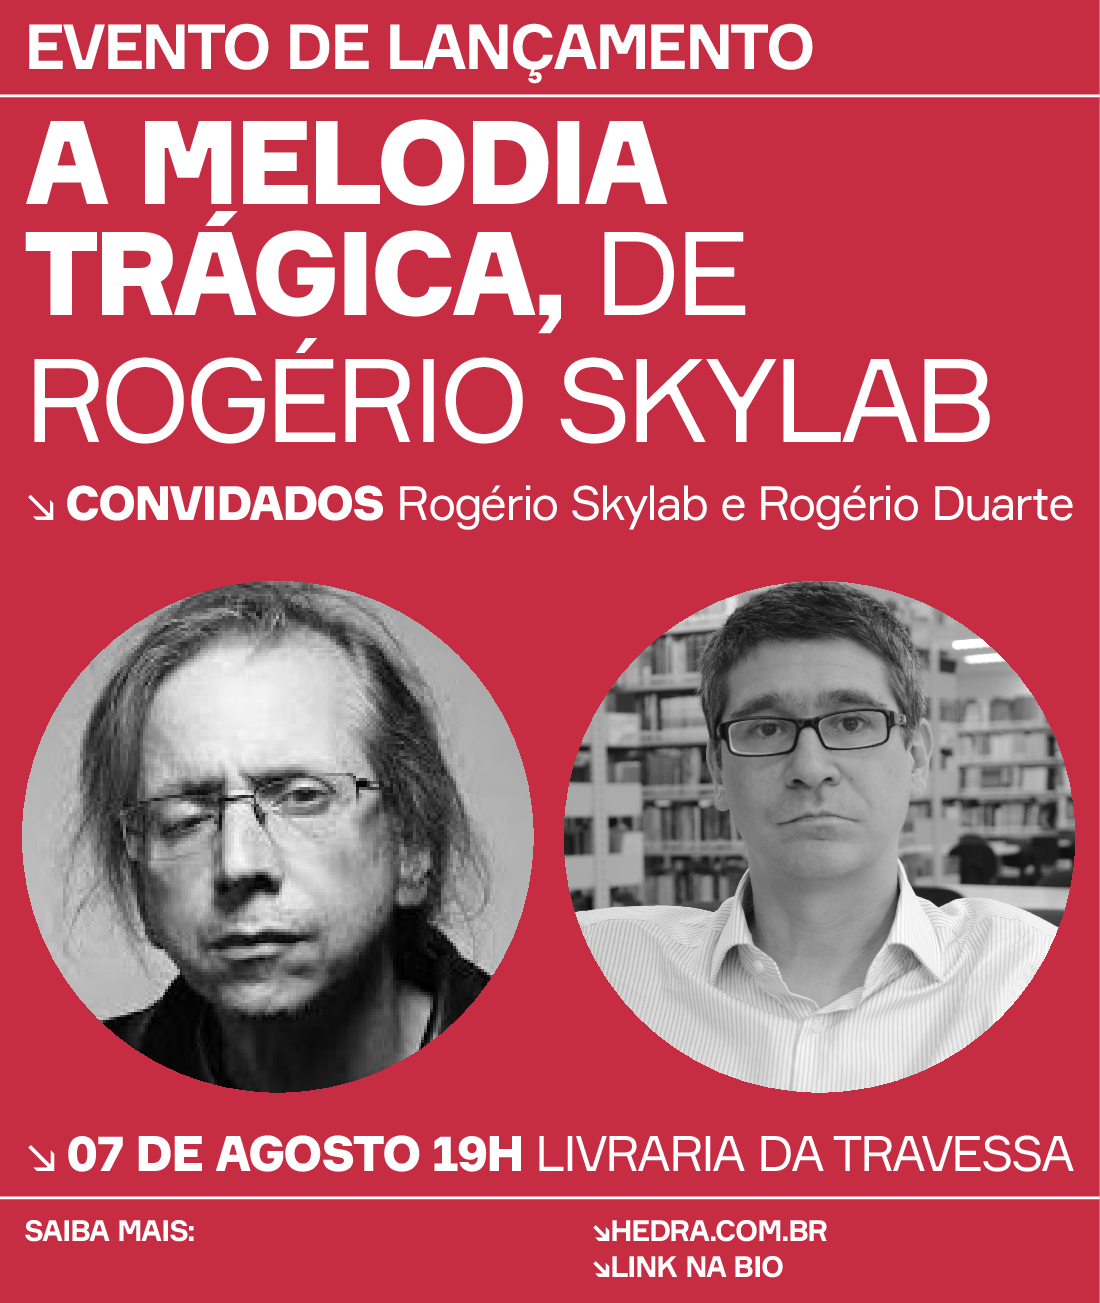
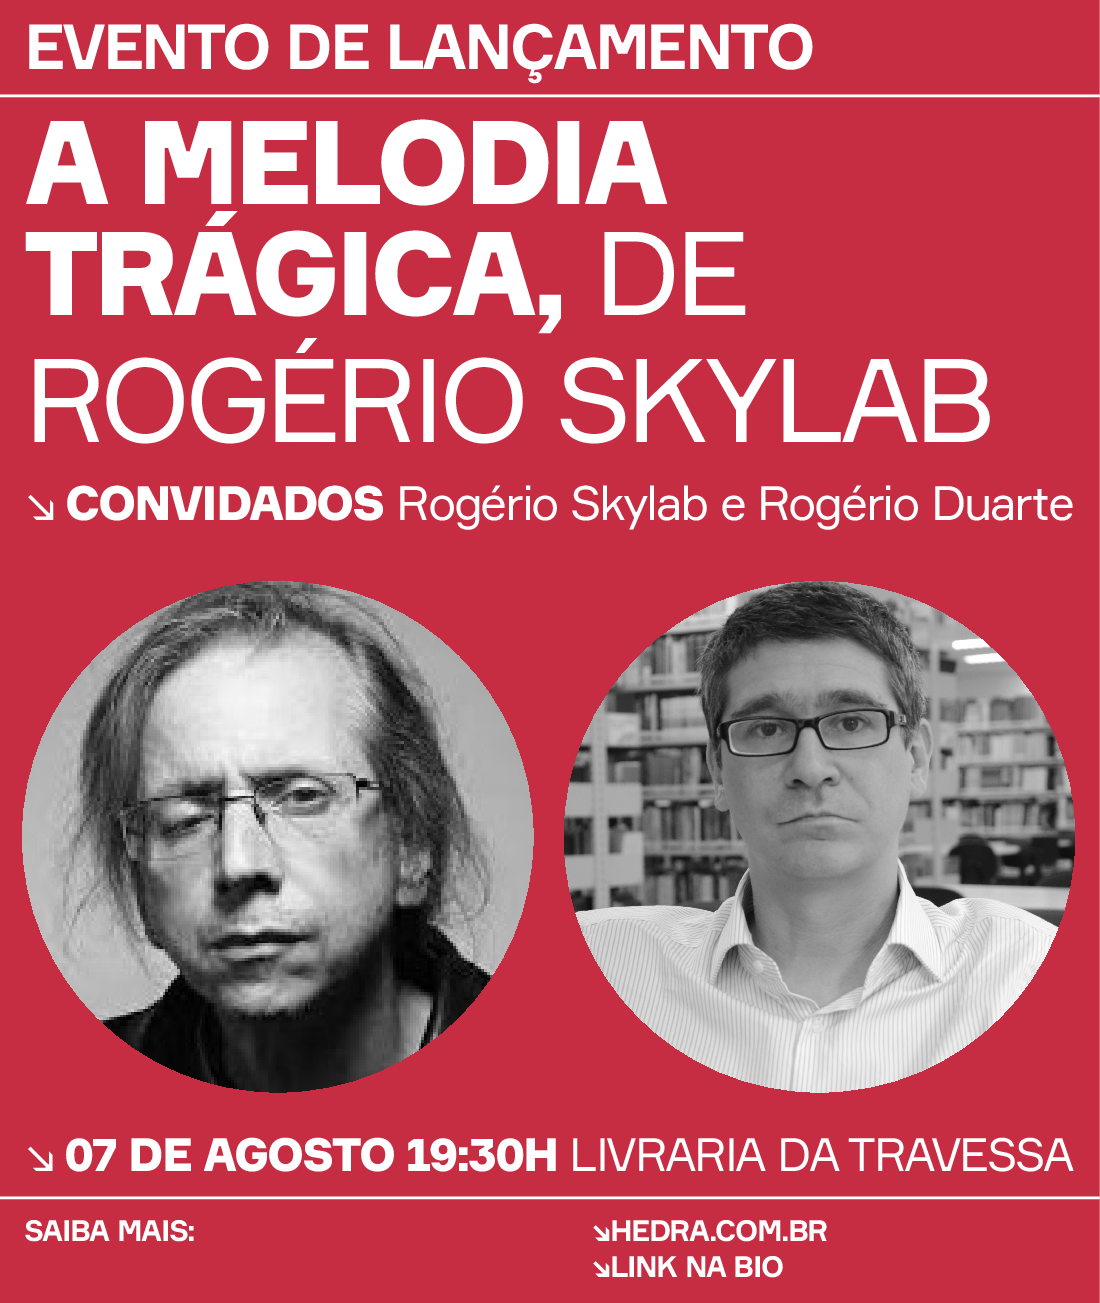
finalizando post flavio

Changed region(s): [[0.0618, 0.8596, 0.9582, 0.921]]

diff --git a/campanhas/destaques-lote1/CARVALHO_EFEMERIDE.tex b/campanhas/destaques-lote1/CARVALHO_EFEMERIDE.tex
@@ -61,7 +61,7 @@ Vestindo essas peças que compunham seu {\it new look}, fruto de pesquisas que d
 \page
 
 
-Chamado ainda de “traje tropical”, o {\it new look} seria uma alternativa apropriada aos climas tropicais. Como vantagens do conjunto, o artista listou: «maior circulação de ar, meias arrastão opcionais para esconder varizes e cores vivas que substituem desejos de agressão».
+Chamado ainda de «traje tropical», o {\it new look} seria uma alternativa apropriada aos climas tropicais. Como vantagens do conjunto, o artista listou: «maior circulação de ar, meias arrastão opcionais para esconder varizes e cores vivas que substituem desejos de agressão».
 
 
 \page %---------------------------------------------------------|
@@ -70,24 +70,13 @@ Chamado ainda de “traje tropical”, o {\it new look} seria uma alternativa ap
 
 \page
 
-\Hedra
+Em breve a editora Hedra publicará, em conjunto com a editora Circuito, uma seleção da obra de Flávio de Carvalho em três volumes.
 
-\stoptext %---------------------------------------------------------|
-
-
-
-Oriundo de uma família abastada, Flávio morou na França e na Inglaterra, onde estudou engenharia civil e belas artes. Em 1939, foi indicado ao {\bf PRÊMIO NOBEL DE LITERATURA}.
-
-
-
-
-
-\page %---------------------------------------------------------|
+\page
 
 \Hedra
 
 \stoptext %---------------------------------------------------------|
-
 
 
 

diff --git a/campanhas/nietzche_utilidade/NIETZSCHE_UTILIDADE_AUTOR.tex b/campanhas/nietzche_utilidade/NIETZSCHE_UTILIDADE_AUTOR.tex
@@ -2,7 +2,7 @@
 
 % Configuração de cores TickleMePink
 \definecolor[MyColor][x=3f9cd0]      % ou ex: [r=0.862, g=0.118, b=0.118] % corresponde a RGB(220, 30, 30)
-\definecolor[MyColorText][black]  % ou ex: [r=0.862, g=0.118, b=0.118] % corresponde a RGB(167, 169, 172)
+\definecolor[MyColorText][black]     % ou ex: [r=0.862, g=0.118, b=0.118] % corresponde a RGB(167, 169, 172)
 
 % Classe para diagramação dos posts
 \environment{marketing.env}        

diff --git a/campanhas/skylab/SKYLAB_MELODIA_EVENTOLANÇAMENTO.tex b/campanhas/skylab/SKYLAB_MELODIA_EVENTOLANÇAMENTO.tex
@@ -44,7 +44,7 @@
 % Colocar sempre imagens quadradas
 \scale[factor=fit]{\MyPortrait{SKYLAB_FOTO2}\quad\MyPortrait{rogerio.JPG}}
 
-\scale[factor=fit]{\Seta\,{\bf 07 DE AGOSTO 19H} LIVRARIA DA TRAVESSA}
+\scale[factor=fit]{\Seta\,{\bf 07 DE AGOSTO 19:30H} LIVRARIA DA TRAVESSA}
 
 
 \page %---------------------------------------------------------|

diff --git a/campanhas/destaques-lote1/CARVALHO_EFEMERIDE.md b/campanhas/destaques-lote1/CARVALHO_EFEMERIDE.md
@@ -1,0 +1,14 @@
+O dia que Flávio de Carvalho desfilou de minissaia 
+
+Flávio de Carvalho foi um dos grandes nomes da geração modernista brasileira, atuando como arquiteto, dramaturgo, pintor, escritor, filósofo e músico. Além disso, o seu Experiência nº 3 o consolidou como percussor da performance no país. 
+
+A Experiência aconteceu em 1956, quando o arquiteto escrevia no Diário de São Paulo. Seu editor pediu que fizesse um modelo de roupa masculino. Então, Flávio criou um traje composto por uma minissaia, uma camisa bufante, um chapéu e uma meia arrastão com sandálias de couro. 
+
+Vestindo essas peças que compunham seu «new look», fruto de pesquisas que dedicou à moda na década 1950, Flávio desfilou pelo centro de São Paulo em direção ao Cine Marrocos, onde o uso de terno e gravata era obrigatório para os homens.
+
+Chamado ainda de «traje tropical», o «new look» seria uma alternativa apropriada aos climas tropicais. Como vantagens do conjunto, o artista listou: «maior circulação de ar, meias arrastão opcionais para esconder varizes e cores vivas que substituem desejos de agressão».
+
+Em breve a editora Hedra publicará, em conjunto com a editora Circuito, uma seleção da obra de Flávio de Carvalho em três volumes.
+
+
+

diff --git a/campanhas/destaques-lote1/CARVALHO_EFEMERIDE/CARVALHO_EFEMERIDE.md b/campanhas/destaques-lote1/CARVALHO_EFEMERIDE/CARVALHO_EFEMERIDE.md
@@ -1,0 +1,14 @@
+O dia que Flávio de Carvalho desfilou de minissaia 
+
+Flávio de Carvalho foi um dos grandes nomes da geração modernista brasileira, atuando como arquiteto, dramaturgo, pintor, escritor, filósofo e músico. Além disso, o seu Experiência nº 3 o consolidou como percussor da performance no país. 
+
+A Experiência aconteceu em 1956, quando o arquiteto escrevia no Diário de São Paulo. Seu editor pediu que fizesse um modelo de roupa masculino. Então, Flávio criou um traje composto por uma minissaia, uma camisa bufante, um chapéu e uma meia arrastão com sandálias de couro. 
+
+Vestindo essas peças que compunham seu «new look», fruto de pesquisas que dedicou à moda na década 1950, Flávio desfilou pelo centro de São Paulo em direção ao Cine Marrocos, onde o uso de terno e gravata era obrigatório para os homens.
+
+Chamado ainda de «traje tropical», o «new look» seria uma alternativa apropriada aos climas tropicais. Como vantagens do conjunto, o artista listou: «maior circulação de ar, meias arrastão opcionais para esconder varizes e cores vivas que substituem desejos de agressão».
+
+Em breve a editora Hedra publicará, em conjunto com a editora Circuito, uma seleção da obra de Flávio de Carvalho em três volumes.
+
+
+

diff --git a/campanhas/skylab/SKYLAB_MELODIA_EVENTOLANÇAMENTO.md b/campanhas/skylab/SKYLAB_MELODIA_EVENTOLANÇAMENTO.md
@@ -2,4 +2,4 @@ Evento de lançamento: «A melodia trágica», de Rogério Skylab
 
 O lançamento do livro  «A melodia trágica» contará com uma roda de conversa com o autor Rogério Skylab e o editor Rogério Duarte, além de uma sessão de autográfos.  
 
-No dia 07 de agosto às 19h na Livraria da Travessa (Rua dos Pinheiros 513, Pinheiros.)
+No dia 07 de agosto às 19:30h na Livraria da Travessa (Rua dos Pinheiros 513, Pinheiros).

diff --git a/campanhas/skylab/SKYLAB_MELODIA_EVENTOLANÇAMENTO/SKYLAB_MELODIA_EVENTOLANÇAMENTO.md b/campanhas/skylab/SKYLAB_MELODIA_EVENTOLANÇAMENTO/SKYLAB_MELODIA_EVENTOLANÇAMENTO.md
@@ -2,4 +2,4 @@ Evento de lançamento: «A melodia trágica», de Rogério Skylab
 
 O lançamento do livro  «A melodia trágica» contará com uma roda de conversa com o autor Rogério Skylab e o editor Rogério Duarte, além de uma sessão de autográfos.  
 
-No dia 07 de agosto às 19h na Livraria da Travessa (Rua dos Pinheiros 513, Pinheiros.)
+No dia 07 de agosto às 19:30h na Livraria da Travessa (Rua dos Pinheiros 513, Pinheiros).
